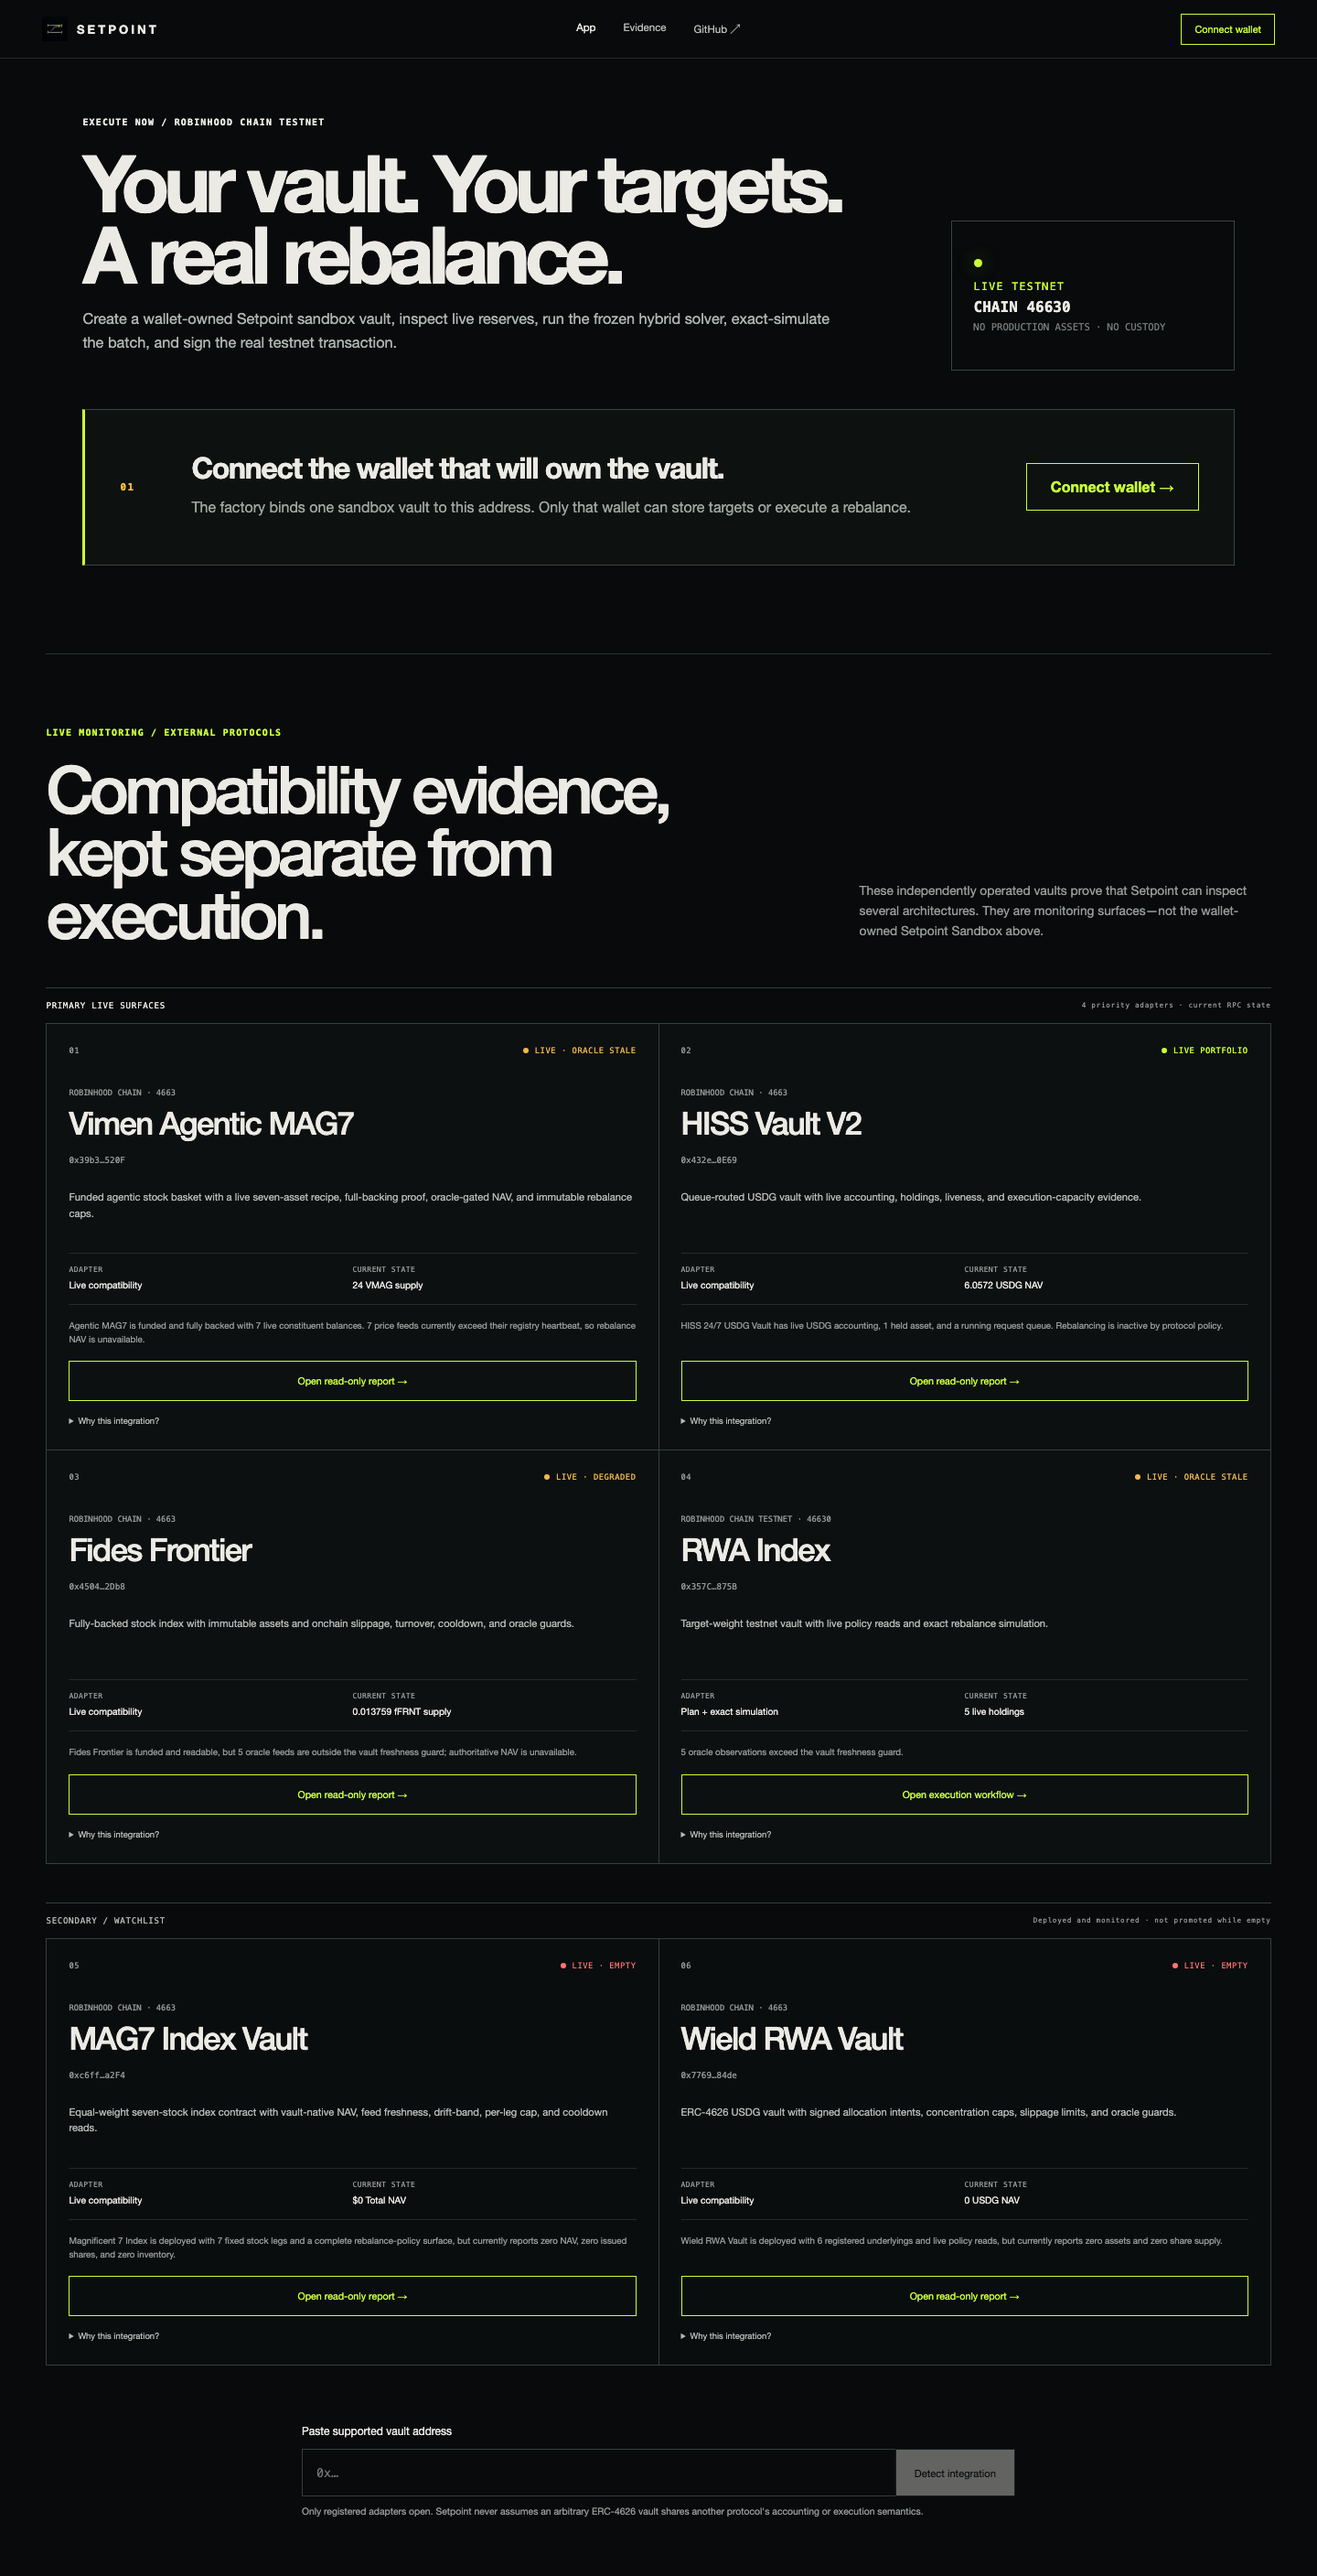
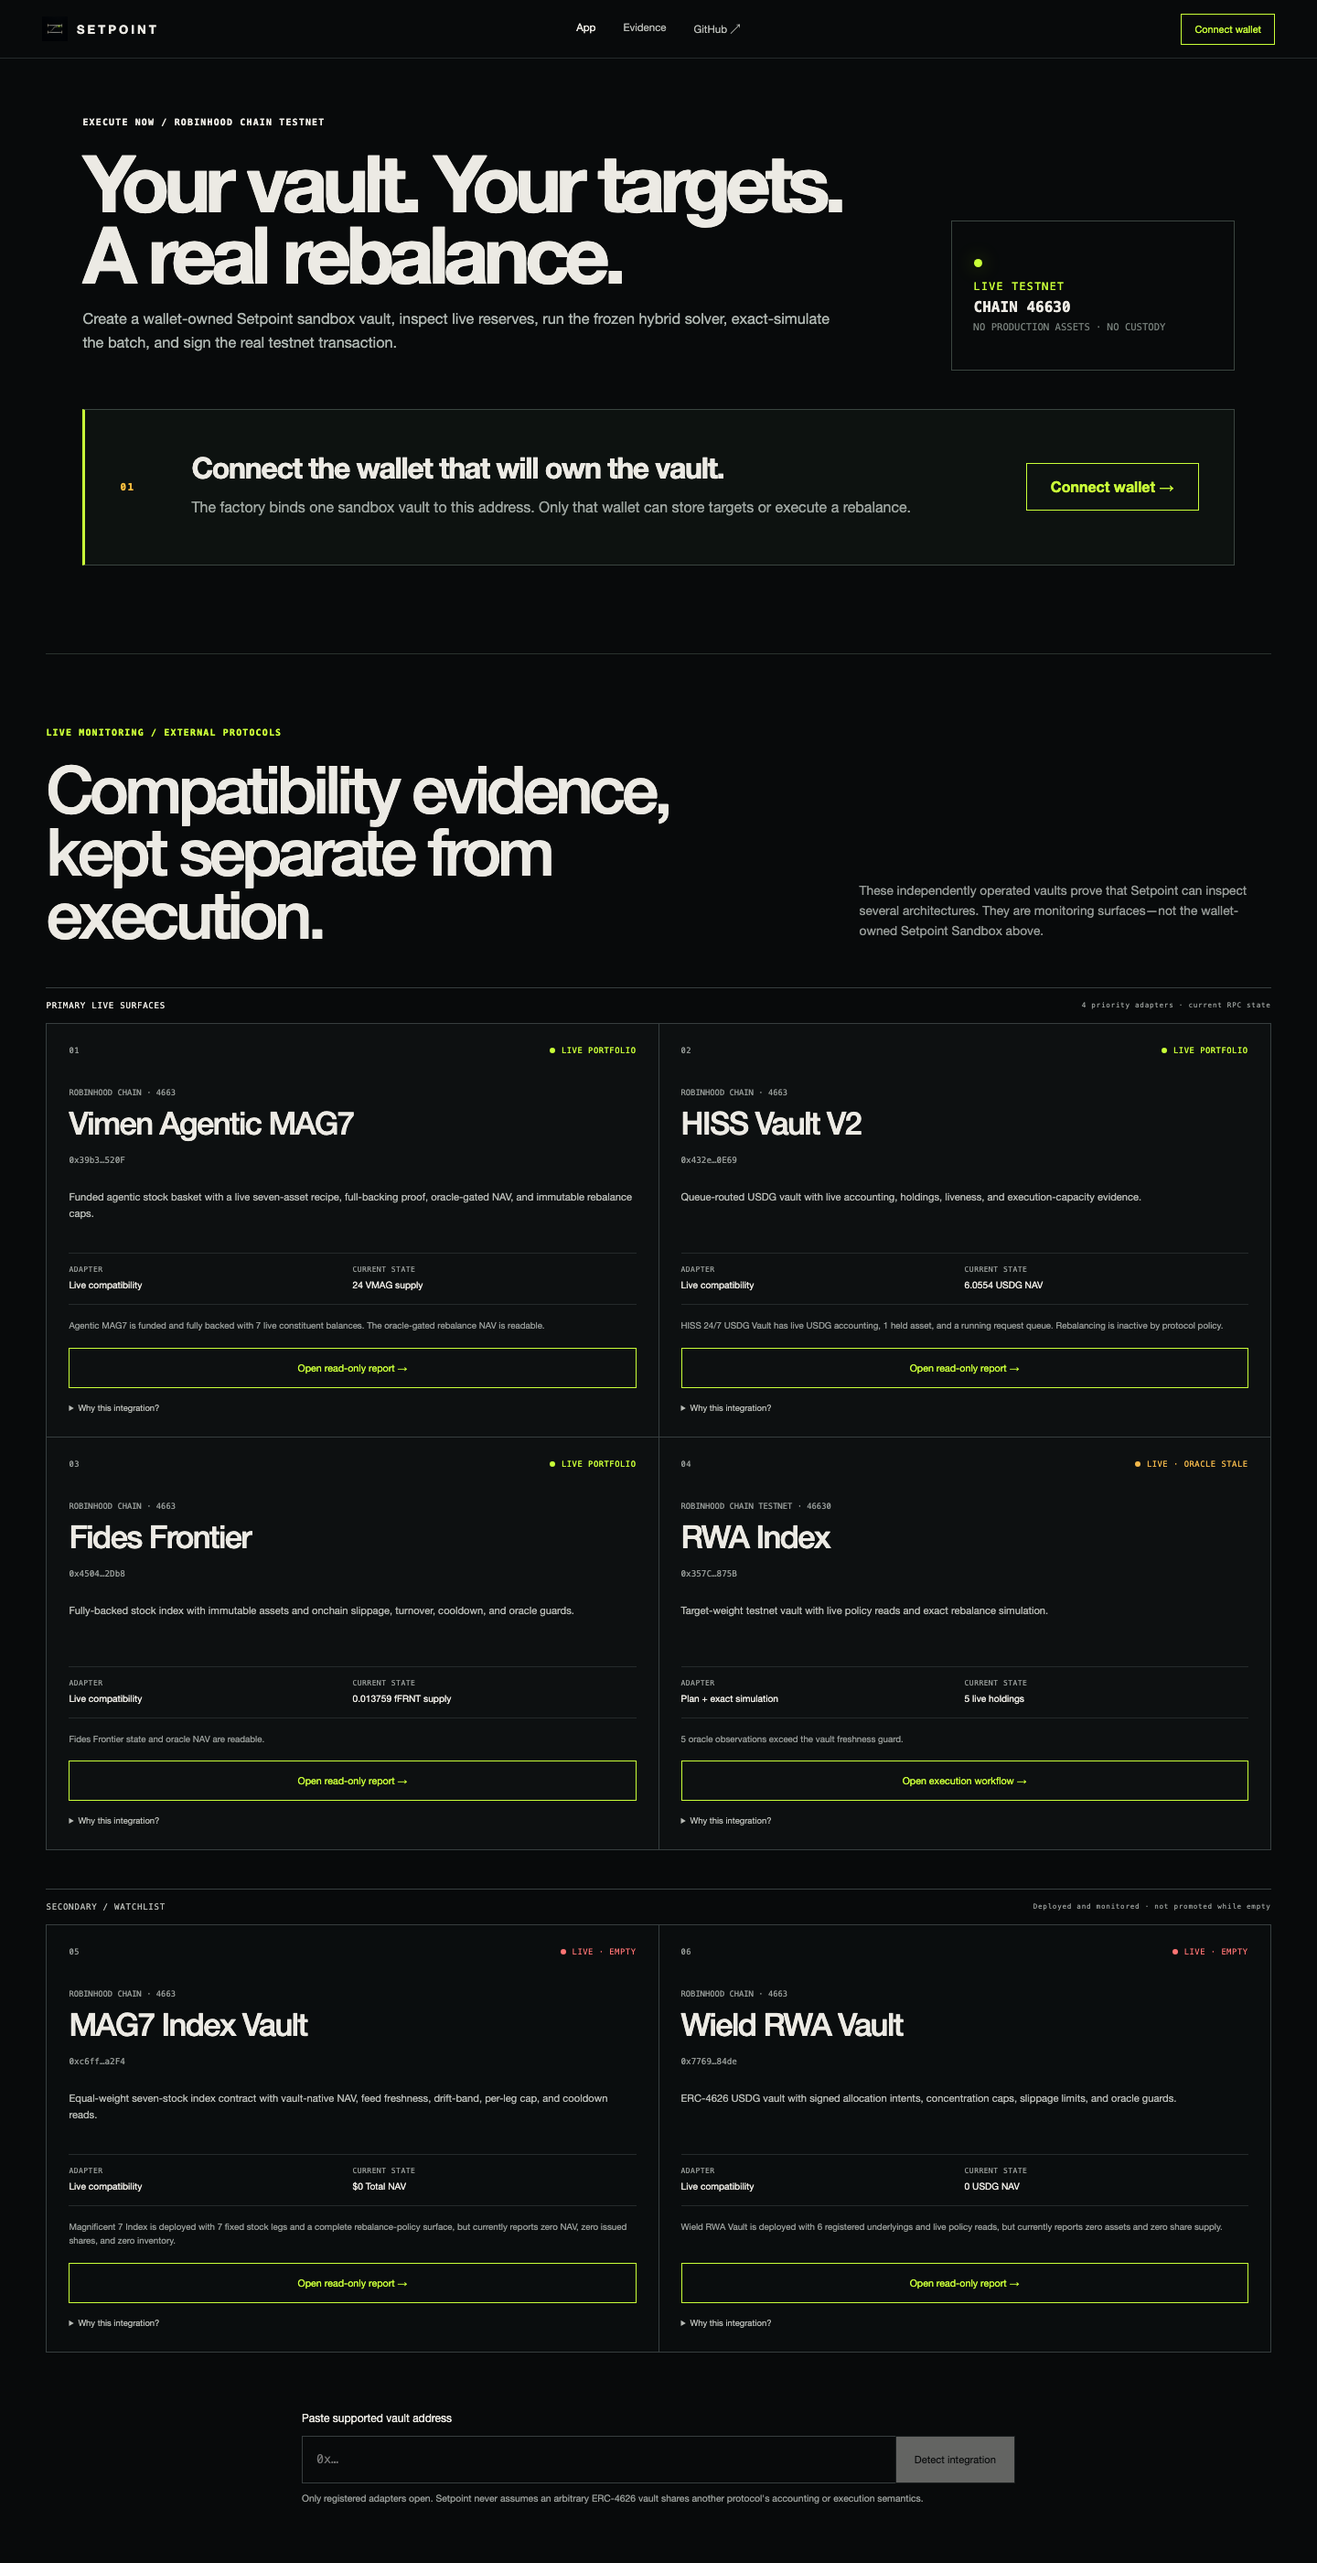
feat: add demo targets functionality in SandboxExecute and enhance UI with new styles

diff --git a/web/live/SandboxExecute.tsx b/web/live/SandboxExecute.tsx
@@ -8,6 +8,8 @@ import type { WalletState } from "./wallet";
 
 const sandbox = new SetpointSandboxLiveAdapter();
 const WAD = 10n ** 18n;
+const DEMO_CASH_TARGET = 20n * 10n ** 16n;
+const DEMO_ASSET_TARGETS = [25n, 15n, 20n, 20n].map((weight) => weight * 10n ** 16n);
 
 function amount(value: bigint, digits = 2): string {
   return Number(formatUnits(value, 18)).toLocaleString(undefined, { maximumFractionDigits: digits });
@@ -106,6 +108,13 @@ export default function SandboxExecute({ wallet, onConnect, onSwitch }: Props) {
     finally { setPhase("IDLE"); }
   }
 
+  function loadDemoTargets() {
+    setCashTarget(DEMO_CASH_TARGET);
+    setTargets([...DEMO_ASSET_TARGETS]);
+    setAnalysis(null);
+    setExecution(null);
+  }
+
   async function analyze() {
     if (!wallet.account) return;
     setPhase("ANALYZING"); setError(null); setAnalysis(null); setExecution(null);
@@ -147,6 +156,7 @@ export default function SandboxExecute({ wallet, onConnect, onSwitch }: Props) {
           </section>
           <section><div className="sandbox-section-title"><div><p className="product-kicker">02 / ONCHAIN POLICY</p><h2>Target allocation</h2></div><strong className={targetTotal === WAD ? "valid" : "invalid"}>{pct(targetTotal)}</strong></div>
             <div className="sandbox-targets"><label><span>sUSDG cash</span><input min="0" max="100" step="0.5" type="number" value={(Number(cashTarget) / 1e16).toFixed(2)} onChange={(event) => setCashTarget(toWad(event.target.value))} /></label>{state.assets.map((asset, index) => <label key={asset.address}><span>{asset.symbol}</span><input min="0" max="70" step="0.5" type="number" value={(Number(targets[index] ?? 0n) / 1e16).toFixed(2)} onChange={(event) => setTargets((current) => current.map((value, item) => item === index ? toWad(event.target.value) : value))} /></label>)}</div>
+            <div className="sandbox-preset-row"><span>Meaningful rebalance demo</span><button disabled={phase !== "IDLE"} onClick={loadDemoTargets} type="button">Load 20 / 25 / 15 / 20 / 20</button></div>
             <button className="sandbox-secondary-action" disabled={phase !== "IDLE" || targetTotal !== WAD} onClick={saveTargets} type="button">{phase === "SAVING" ? "Confirming target tx…" : "Save targets onchain"}</button>
           </section>
         </div>

diff --git a/web/styles.css b/web/styles.css
@@ -320,6 +320,10 @@ body {
 .sandbox-targets { border-top: 1px solid #28312d; }
 .sandbox-targets label { display: grid; grid-template-columns: 1fr 110px; align-items: center; min-height: 58px; border-bottom: 1px solid #28312d; font-size: .82rem; }
 .sandbox-targets input { width: 100%; padding: 10px; border: 1px solid #3b4741; color: #f1f3f1; background: #090d0b; font: .8rem var(--mono, monospace); }
+.sandbox-preset-row { display: flex; align-items: center; justify-content: space-between; gap: 18px; margin-top: 18px; padding: 13px 0; border-top: 1px solid #28312d; border-bottom: 1px solid #28312d; color: #89918c; font: .62rem var(--mono, monospace); text-transform: uppercase; }
+.sandbox-preset-row button { padding: 8px 11px; border: 1px solid #59635d; background: transparent; color: var(--foreground); cursor: pointer; font: .6rem var(--mono, monospace); }
+.sandbox-preset-row button:hover { border-color: var(--signal, #baff16); color: var(--signal, #baff16); }
+.sandbox-preset-row button:disabled { opacity: .45; cursor: not-allowed; }
 .sandbox-secondary-action { width: 100%; margin-top: 22px; }
 .sandbox-analyze { display: grid; grid-template-columns: 1fr auto; align-items: center; gap: 32px; padding: 28px 34px; border: 1px solid #334039; border-top: 0; background: #0b100e; }
 .sandbox-analyze span { color: var(--signal, #baff16); font: .66rem var(--mono, monospace); letter-spacing: .1em; }
@@ -364,6 +368,8 @@ body {
   .sandbox-metrics > div:nth-child(4) { border-top: 1px solid #28312d; }
   .sandbox-table > div { grid-template-columns: 1.2fr .65fr .65fr; }
   .sandbox-table > div span:last-child { display: none; }
+  .sandbox-preset-row { align-items: stretch; flex-direction: column; }
+  .sandbox-preset-row button { min-height: 40px; }
   .sandbox-analyze { grid-template-columns: 1fr; }
   .sandbox-result { gap: 20px; }
   .sandbox-confirmed { grid-template-columns: 36px 1fr; }

diff --git a/web/live/live-product.test.ts b/web/live/live-product.test.ts
@@ -79,6 +79,12 @@ test("safe sandbox no-trade decisions are not presented as simulation failures",
   assert.match(sandboxApp, /"NO REBALANCE NEEDED"/);
 });
 
+test("sandbox offers an explicit one-click meaningful rebalance target", () => {
+  assert.match(sandboxApp, /DEMO_ASSET_TARGETS = \[25n, 15n, 20n, 20n\]/);
+  assert.match(sandboxApp, /Load 20 \/ 25 \/ 15 \/ 20 \/ 20/);
+  assert.match(sandboxApp, /Save targets onchain/);
+});
+
 test("RPC failures are not represented as NO_TRADE", () => {
   assert.match(liveApp, /context === "read"\) return \{ kind: "RPC_ERROR"/);
   assert.match(liveAdapter, /if \(state\.staleAssets\.length > 0\)/);
